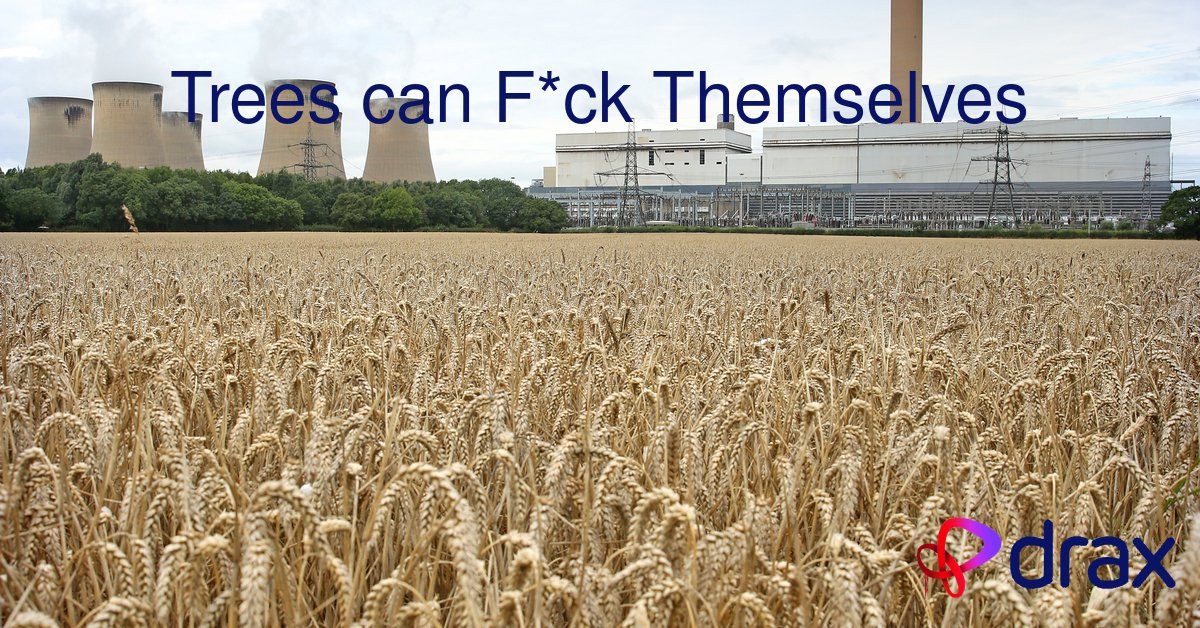
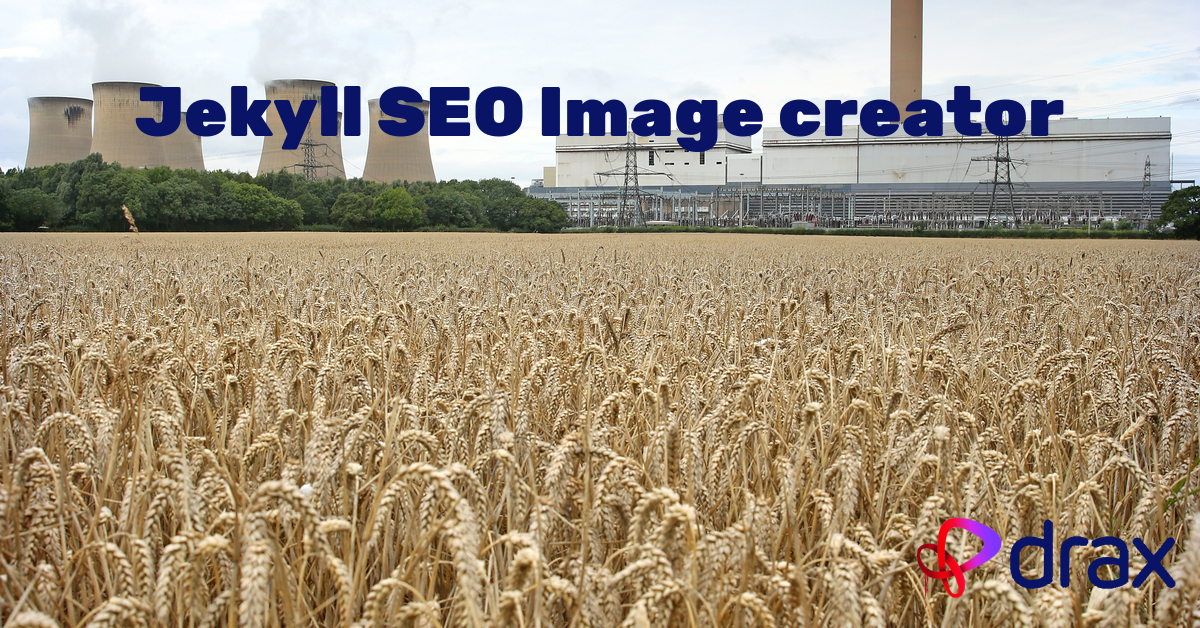
Set up for first draft usage 0.0.0

Changed region(s): [[0.0925, 0.0908, 0.8942, 0.242]]

diff --git a/lib/jekyll-seo-image.rb b/lib/jekyll-seo-image.rb
@@ -65,15 +65,22 @@ module SeoImage
             c.gravity 'north'
             c.draw "text 0,70 '#{post.data["title"]}'"
             c.pointsize 70
-            c.font config["text"]["font"]
+            c.font File.join(site.config["source"],config["text"]["font"])
             c.fill(config["text"]["color"])
           end
           image.format ext
           image.write out_path
-          # output = Jekyll::StaticFile.new(site,site.config["source"],config["out_path"],out_name)
-          site.static_files << Jekyll::StaticFile.new(site,site.config["source"],config["out_path"],out_name)
-          # output.write(out_path)
+          new_image_file = Jekyll::StaticFile.new(site, site.config["source"], config["out_path"],out_name)
           post.data["image"] = File.join(config["out_path"],out_name)
+          site.static_files << new_image_file
+          # new_image_file.content = File.read(image.path)
+          # new_image_file.data["layout"] = nil
+          # site.pages << new_image_file
+          # puts new_image_file.path
+          # output = Jekyll::StaticFile.new(site,site.config["source"],config["out_path"],out_name)
+          # site.static_files << Jekyll::StaticFile.new(site,site.config["source"],config["out_path"],out_name)
+          # output.write(out_path)
+          # post.data["image"] = File.join(config["out_path"],out_name)
         end
       end
     end

diff --git a/_posts/2021-04-20-example-post.md b/_posts/2021-04-20-example-post.md
@@ -1,0 +1,8 @@
+---
+layout: post
+tags: []
+title: An example post
+categories: ''
+background: "https://www.drax.com/wp-content/uploads/2019/09/Drax-31.07.19-77.jpg"
+---
+# A plugin to generate images for link previews

diff --git a/_posts/2021-04-20-intro.md b/_posts/2021-04-20-intro.md
@@ -1,0 +1,9 @@
+---
+layout: post
+tags: []
+title: Jekyll SEO Image creator
+date: 2021-04-20 20:00:00 +0000
+categories: ''
+background: "assets/images/al8a0460.jpg"
+---
+# A plugin to generate images for link previews
